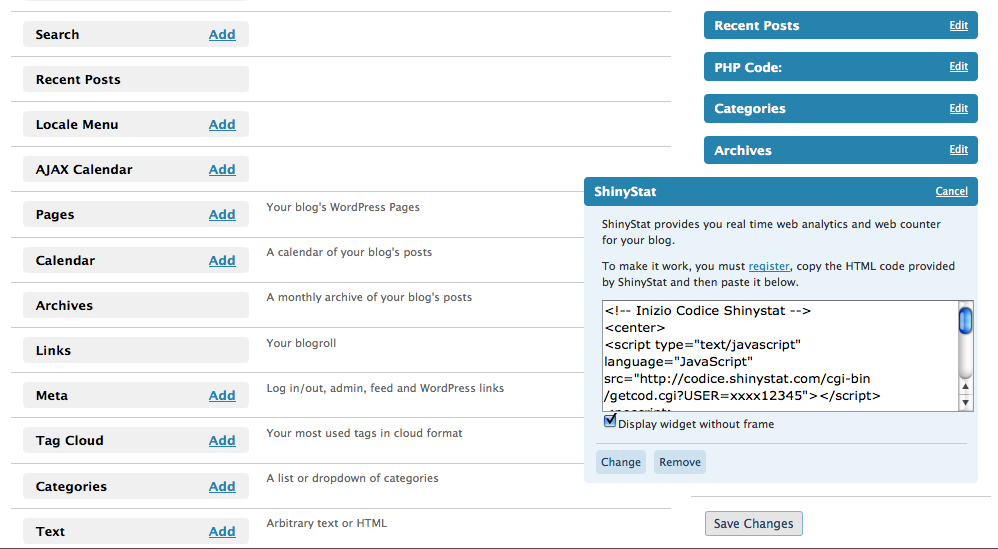
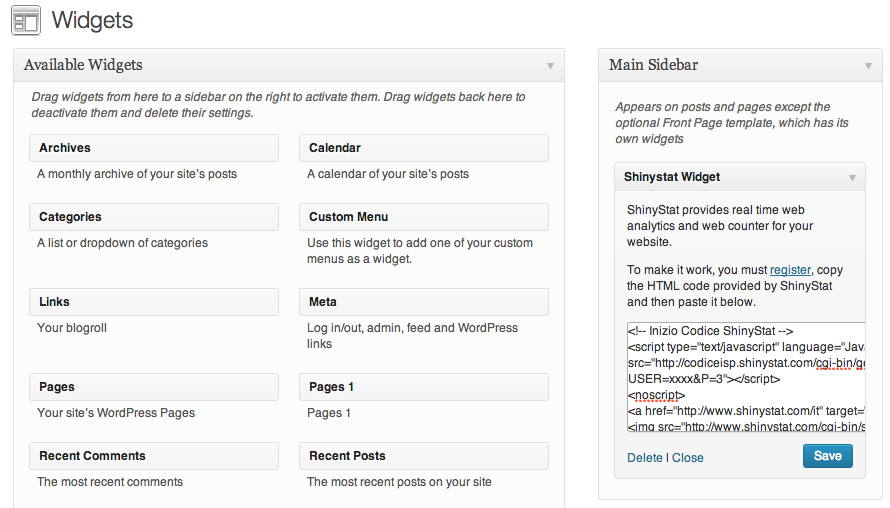
Update to 2.8 specs
git-svn-id: https://plugins.svn.wordpress.org/wp-shinystat/trunk@779309 b8457f37-d9ea-0310-8a92-e5e31aec5664

diff --git a/wp-shinystat.php b/wp-shinystat.php
@@ -2,102 +2,92 @@
 /*
 Plugin Name: ShinyStat Widget
 Plugin URI: http://www.ruscibar.it/wp-shinystat
-Description: Adds ShinyStat counter to your blog.
+Description: Adds ShinyStat counter to your Wordpress
 Author: Paolo Rossi
-Version: 0.2
+Version: 0.3
 Author URI: http://www.ruscibar.it/
 
-Credits: based on MyBlogLog Widget
 */
 
-### Create Text Domain For Translations
+// Create Text Domain For Translations
 load_plugin_textdomain('wp-shinystat', 'wp-content/plugins/wp-shinystat');
 
-// This gets called at the plugins_loaded action
-function widget_shinystat_init() {
-	
-	// Check for the required API functions
-	if ( !function_exists('register_sidebar_widget') || !function_exists('register_widget_control') )
-		return;
+// The example widget class
+class Shinystat_Widget extends WP_Widget {
 
-	// This saves options and prints the widget's config form.
-	function widget_shinystat_control() {
-		$options = $newoptions = get_option('widget_shinystat');
-		if ( $_POST['shinystat-submit'] ) {
-      $valid_code = trim(stripslashes($_POST['shinystat-code']));
-
-      // Making sure it's a ShinyStat widget
-      $n_m = preg_match('/<(script|a)(.+)(src|href)(.+)(shinystat\.(com|it)\/)(.+)<\/(script|a)>/im', $valid_code);
-      if($n_m == 0) {
-        $valid_code = '';
-      }
-      /*
-      */
-			$newoptions['shinystat_code'] = $valid_code;
-      
-      $frameless = trim(stripslashes($_POST['shinystat-frameless']));
-      if ($frameless)
-        $frameless = true;
-      else
-        $frameless = false;
-              
-  		$newoptions['shinystat_frameless'] = $frameless;
-		}
-		if ( $options != $newoptions ) {
-			$options = $newoptions;
-			update_option('widget_shinystat', $options);
-		}
-	?>
-				<div>
-				  <p style="text-align:left"><?php _e('ShinyStat provides you real time web analytics and web counter for your blog.', 'wp-shinystat'); ?></p>
-				  <p style="text-align:left"><?php _e('To make it work, you must <a href="http://www.shinystat.com">register</a>, copy the HTML code provided by ShinyStat and then paste it below.', 'wp-shinystat'); ?></p>
-         	<textarea id="shinystat-code" name="shinystat-code" style="width:370px;height:110px;padding:0px;margin:0px;"><?php echo wp_specialchars($options['shinystat_code'], true); ?></textarea>
-         	<p style="text-align:left"><input type="checkbox" id="shinystat-frameless" name="shinystat-frameless" value="true" <?php if ($options['shinystat_frameless'] == true) { echo 'checked'; }?>/><label for="shinystat-frameless"><?php _e('Display widget without frame', 'wp-shinystat') ?></label></p>
-				  <input type="hidden" name="shinystat-submit" id="shinystat-submit" value="1" />
-				</div>
-	<?php
+// Widget Settings
+	public function __construct() {
+		$widget_ops = array( 'classname' => 'wp-shinystat', 'description' => __('Adds ShinyStat counter to your blog', 'wp-shinystat') );
+		$control_ops = array( 'id_base' => 'widget-shinystat');
+		$this->WP_Widget( 'widget-shinystat', __('Shinystat Widget', 'wp-shinystat'), $widget_ops, $control_ops );
 	}
 
-	// This prints the widget
-	function widget_shinystat($args) {
+
+  // display the widget
+  public function widget($args, $instance) {
 		global $user_ID;
 		global $user_level;
 
-		extract($args);
-		$defaults = array();
-		$options = (array) get_option('widget_shinystat');
+		if ( $instance['shinystat_code'] && ( !$user_ID || intval($user_level) <= 1 ) ) {
+      echo $args['before_widget'];
 
-		foreach ( $defaults as $key => $value )
-			if ( !isset($options[$key]) )
-				$options[$key] = $defaults[$key];
+      // Add tracker
+      if ( $instance['shinystat_code'] ) {
+        echo $instance['shinystat_code'];
+      }
 
+      echo $args['after_widget'];
+    }
+  }
 
-		if ( $options['shinystat_code'] && ( !$user_ID || intval($user_level) <= 1 ) )
-		{
-  		if ($options['shinystat_frameless'] == true) {
-    		echo '<li style="background-color: transparent; background-image: none">';
-      } else {
-    		echo $before_widget;
-			  echo $before_title . "" . $after_title;
-			}
-			echo $options['shinystat_code'];
-  		if ($options['shinystat_frameless'] == true)
-  			echo '</li>';
-      else  
-    		echo $after_widget;
-		}
-		?>
+  // update the widget
+  public function update($new_instance, $old_instance) {
+    $instance = array();
 
+    // Validate tracker
+    $valid_code = trim(stripslashes($new_instance['shinystat_code']));
+    $n_m = preg_match('/<(script|a)(.+)(src|href)(.+)(shinystat\.(com|it)\/)(.+)<\/(script|a)>/im', $valid_code);
+    if ($n_m == 0) {
+      $valid_code = '<!-- NOT VALID CODE -->';
+    }
+
+    //Strip tags from title and name to remove HTML
+    $instance['shinystat_code'] = ( ! empty( $valid_code ) ) ? $valid_code : '<!-- Zoo bar -->';
+
+    return $instance;
+  }
+
+  // and of course the form for the widget options
+  public function form($instance) {
+    //Set up some default widget settings.
+    $defaults = array( 'shinystat_code' => '');
+    $instance = wp_parse_args( (array) $instance, $defaults );
+?>
+<div>
+  <p style="text-align:left"><?php _e('ShinyStat provides real time web analytics and web counter for your website.', 'wp-shinystat'); ?></p>
+  <p style="text-align:left"><?php _e('To make it work, you must <a href="http://www.shinystat.com">register</a>, copy the HTML code provided by ShinyStat and then paste it below.', 'wp-shinystat'); ?></p>
+  <textarea id="<?php echo $this->get_field_id( 'shinystat_code' ); ?>" name="<?php echo $this->get_field_name( 'shinystat_code' ); ?>" style="width:370px;height:110px;padding:0px;margin:0px;"><?php echo $instance['shinystat_code']; ?></textarea>
+  <input type="hidden" name="shinystat-submit" id="shinystat-submit" value="1" />
+</div>
 <?php
-	}
-
-	// Tell Dynamic Sidebar about our new widget and its control
-	register_sidebar_widget('ShinyStat', 'widget_shinystat');
-	register_widget_control('ShinyStat', 'widget_shinystat_control', 370, 300);
-	
+  }
 }
 
-// Delay plugin execution to ensure Dynamic Sidebar has a chance to load first
-add_action('widgets_init', 'widget_shinystat_init');
+// function to register my widget
+function widget_shinystat_init() {
+    register_widget( 'Shinystat_Widget' );
+}
+
+add_action( 'widgets_init', 'widget_shinystat_init' );
+
+// Add settings link on plugin page
+function your_plugin_settings_link($links) { 
+  $settings_link = '<a href="widgets.php">' . __('Manage', 'wp-shinystat') . '</a>'; 
+  array_unshift($links, $settings_link); 
+  return $links; 
+}
+ 
+$plugin = plugin_basename(__FILE__); 
+add_filter("plugin_action_links_$plugin", 'your_plugin_settings_link' );
 
 ?>
